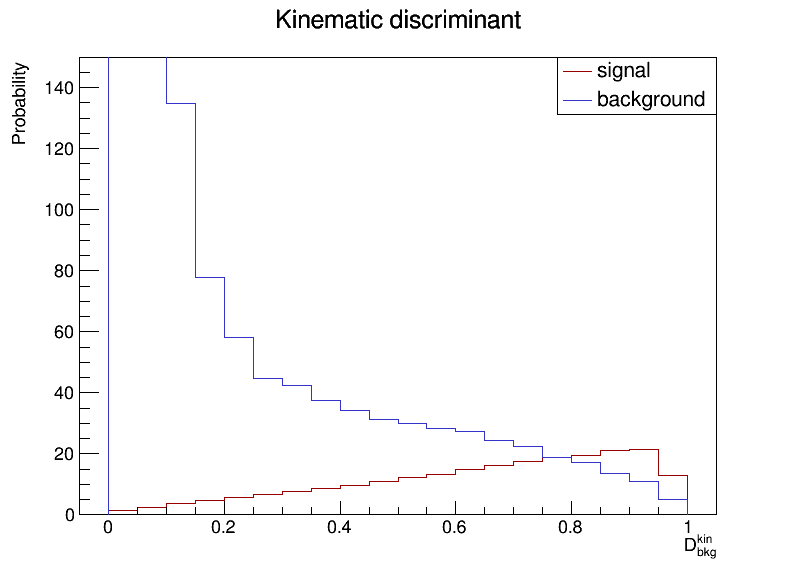
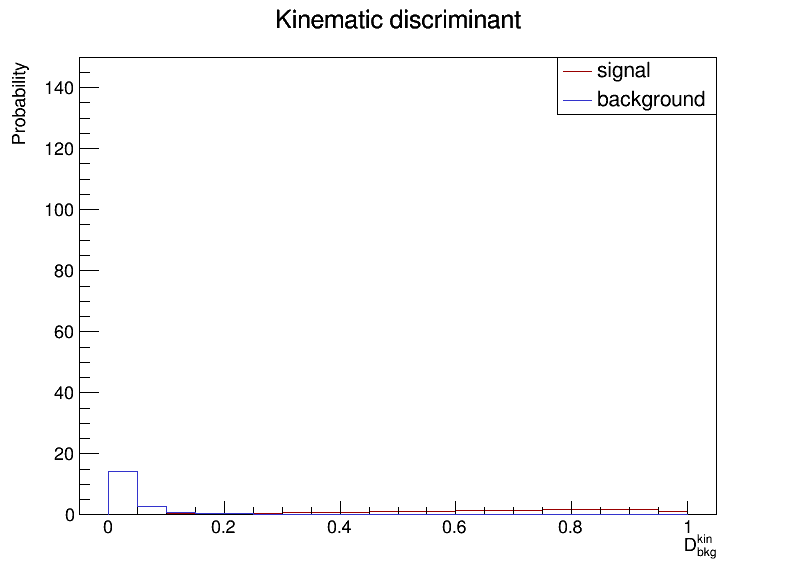
Zad3: pokusaj 4

Changed region(s): [[0.3317, 0.8916, 0.6633, 0.9213], [0.2111, 0.8916, 0.2412, 0.9213], [0.1809, 0.8619, 0.2111, 0.8916]]

diff --git a/Vjezbe_7/Analyzer.cpp b/Vjezbe_7/Analyzer.cpp
@@ -339,6 +339,10 @@ void Analyzer::PlotPublicHistograms()
     TCanvas *c2 = new TCanvas("c2", "kinematicka diskriminanta",0,0, 800, 600);
     TLegend *leg2 = new TLegend(0.7, 0.8, 0.9, 0.9);
 
+    Double_t scale_factor;
+
+    scale_factor = 1.0/( h_Dkin_sig->Integral("width") );
+    h_Dkin_sig->Scale(scale_factor);
     h_Dkin_sig->SetTitle("Kinematic discriminant");
     h_Dkin_sig->GetXaxis()->SetTitle("D^{kin}_{bkg}");
     h_Dkin_sig->GetYaxis()->SetTitle("Probability");
@@ -347,6 +351,8 @@ void Analyzer::PlotPublicHistograms()
     h_Dkin_sig->SetLineColor(kRed+2);
     h_Dkin_sig->Draw("hist");
 
+    scale_factor = 1.0/( h_Dkin_bkg->Integral("width") );
+    h_Dkin_bkg->Scale(scale_factor);
     h_Dkin_bkg->SetLineColor(kBlue-3);
     h_Dkin_bkg->Draw("hist same");
 
